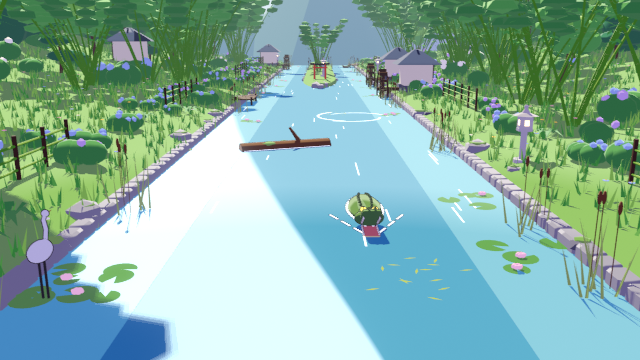
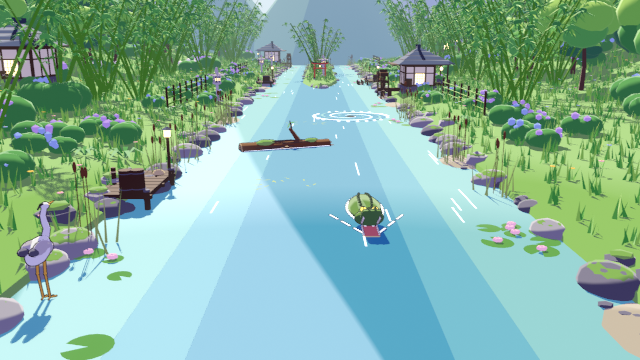
River: mid-tone water band between shallows and channel; lighter ivy geometry for phones
Claude-Session: https://claude.ai/code/session_01TxSodDL34drxJcRiSKWTT5

diff --git a/blender/assets/river_kit.py b/blender/assets/river_kit.py
@@ -27,6 +27,7 @@ def mats():
     M = E.mat
     M("rv_water", 0x9AD8DC, rim=0.2, spec=0.25, soft=0.12, flags=E.F_WATER | E.F_NOCAST, outline=0.0, shadow=0x7FA6D6)
     M("rv_water_deep", 0x58ACCF, rim=0.2, spec=0.25, soft=0.12, flags=E.F_WATER | E.F_NOCAST, outline=0.0, shadow=0x6A8CC8)
+    M("rv_water_mid", 0x7AC4DA, rim=0.2, spec=0.25, soft=0.12, flags=E.F_WATER | E.F_NOCAST, outline=0.0, shadow=0x729CD0)
     M("rv_foam", 0xF4FBFF, emis=0.25, rim=0.0, soft=0.2, flags=E.F_NOCAST, outline=0.0)
     M("rv_grass", 0x9ACD6E, rim=0.15, soft=0.15, shadow=0x9A9AD0)
     M("rv_grass_dark", 0x78B45A, rim=0.15, soft=0.15, shadow=0x8A8AC8)
@@ -364,6 +365,9 @@ def river_seg(name="river_seg", L=20.0, seed=3, details=True):
     m.mat("rv_water")
     for sx in (-1, 1):
         m.box((sx * RIVER_HALF * 0.82, L / 2, -0.025), (RIVER_HALF * 0.5, L, 0.02), smooth=False)
+    m.mat("rv_water_mid")                         # a mid tone between, so shallows fade into the channel
+    for sx in (-1, 1):
+        m.box((sx * RIVER_HALF * 0.5, L / 2, -0.027), (RIVER_HALF * 0.3, L, 0.02), smooth=False)
     m.mat("rv_foam")
     for k in range(16):
         x = rnd.uniform(-RIVER_HALF + 0.3, RIVER_HALF - 0.3)

diff --git a/blender/assets/sky_kit.py b/blender/assets/sky_kit.py
@@ -304,7 +304,7 @@ def _cap(m, rnd, top, rt, sd=1, dense=True):
                 p = p + sdv * rnd.uniform(-0.09, 0.09) + d * rnd.uniform(-0.02, 0.03)
                 q = p + V((0, 0, -zz))
                 m.mat(("sk_vine", "sk_grass_b", "sk_tree2")[rnd.randrange(3)])
-                m.ico(tuple(q + sdv * rnd.uniform(-0.08, 0.08)), (0.16 + rnd.uniform(-0.05, 0.06)) * (1 - 0.6 * f), 2,
+                m.ico(tuple(q + sdv * rnd.uniform(-0.08, 0.08)), (0.16 + rnd.uniform(-0.05, 0.06)) * (1 - 0.6 * f), 1,
                       s=(rnd.uniform(0.45, 0.7), rnd.uniform(0.8, 1.2), rnd.uniform(0.6, 1.0)))
                 zz += rnd.uniform(0.18, 0.4)
 
